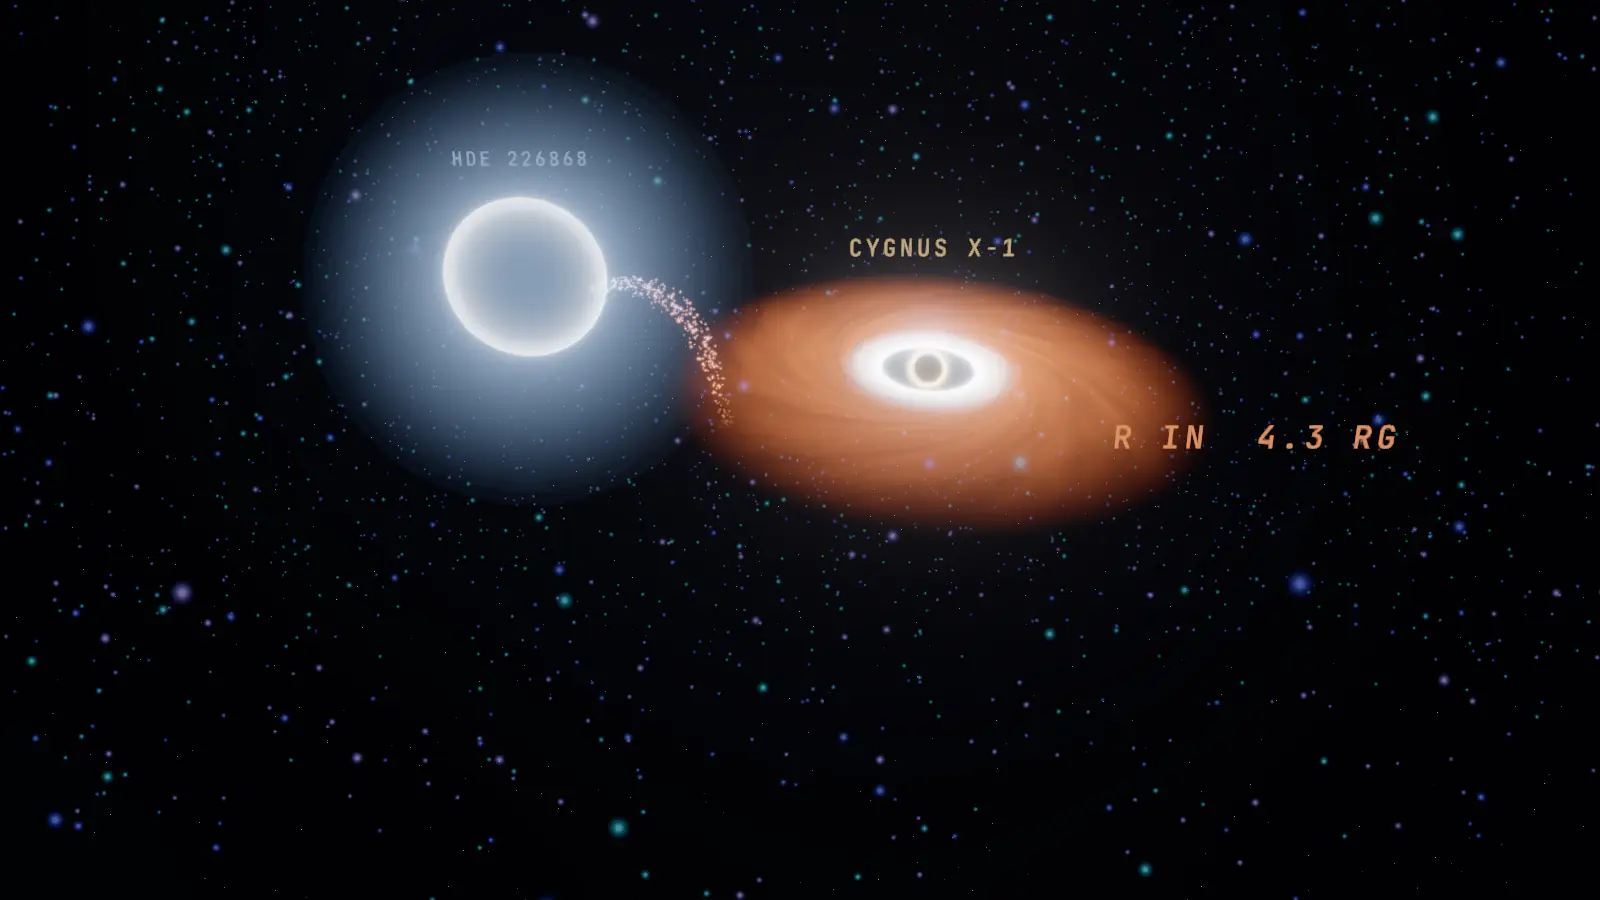
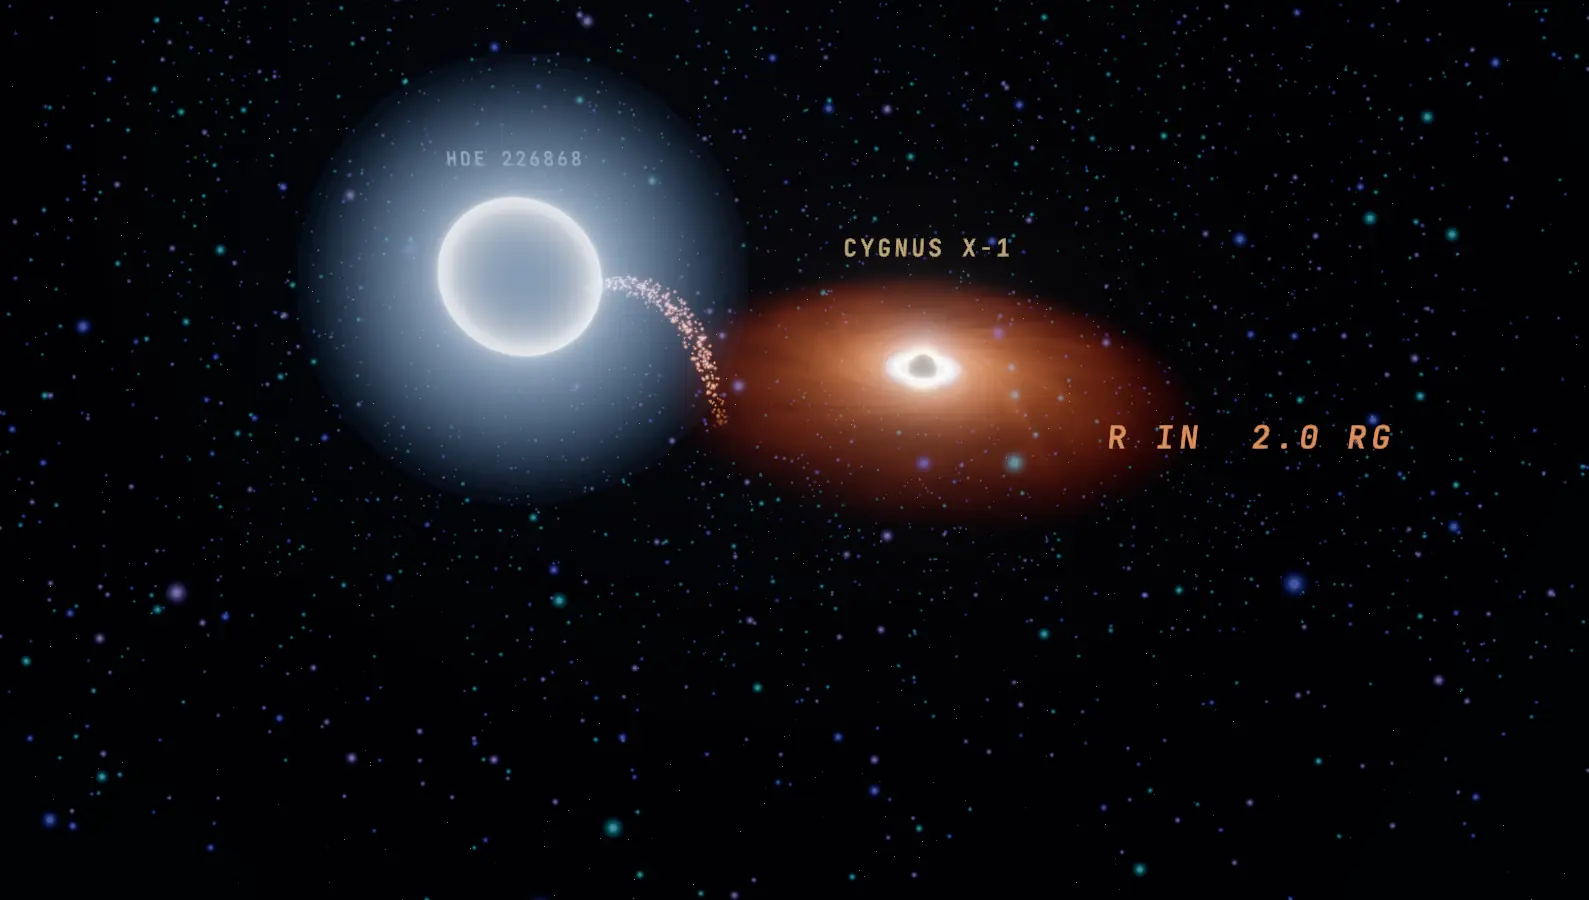
fix: correct launch content and terminal site paths
Recapture the Cygnus X-1 poster and share image at the final 2.0 Rg value, make the terminal accept site paths such as /posts, update the AzuFlow row, credit the noise hash, and add a license ledger.

diff --git a/src/data/projectIndex.ts b/src/data/projectIndex.ts
@@ -14,7 +14,7 @@ export const PROJECT_INDEX: IndexedProject[] = [
   { name: 'LLM Financial AI System', description: 'Self-hosted open-source LLM deployment on Vast.ai for financial statement analysis with structured JSON output pipelines.' },
   { name: 'Molecular Dynamics Simulation', description: 'GROMACS/LAMMPS pipeline modeling thermal motion of DNA/RNA molecules within CAD-defined nanoscale boundaries.' },
   { name: 'HPC Cluster & Homelab', description: 'Earlier 5-node Slurm and Proxmox HA clusters with GPU scheduling, Kubernetes, TrueNAS, and Grafana/Prometheus monitoring.' },
-  { name: 'AzuFlow', description: 'Privacy-first productivity app (React Native mobile + Electron desktop) with background alerts and cross-platform sync.' },
+  { name: 'AzuFlow', description: 'Native SwiftUI macOS focus app with a Safari extension and a bring-your-own-key AI coach, built for OpenAI Build Week.' },
   { name: 'Sensor Data App', description: 'Cross-platform mobile app for high-frequency sensor logging (100Hz) for a mental health research study at IISER Bhopal.' },
   { name: 'Spillover', description: 'Real-time party game app (Next.js + Supabase) with anonymous hot takes, Two Truths and a Lie, and live leaderboard.' },
   { name: 'Catering Business Website', description: 'Catering business website with Payload CMS, multi-step quote wizard, menu management, and inquiry tracking.' },

diff --git a/src/components/CosmicJourney3D/index.tsx b/src/components/CosmicJourney3D/index.tsx
@@ -40,13 +40,14 @@ const PerfProbe = lazy(() => import('./PerfProbe'))
 function installFrameGrabber() {
   const target = window as unknown as {
     __captureFrame?: (time: number) => Promise<Blob | null>
-    __storyBeats?: { id: string; progress: number }[]
+    __storyBeats?: { id: string; start: number; end: number }[]
   }
-  // Each beat's id and the page progress at the middle of its scroll range, for scripts/capture-posters.mjs.
+  // Each beat's id and the page progress where its scroll range starts and ends, for scripts/capture-posters.mjs.
   const ranges = cumulativeRanges(BEATS.map((b) => b.meta.scrollLength))
   target.__storyBeats = BEATS.map((b, i) => ({
     id: b.id,
-    progress: flightFractionToGlobal((ranges[i]!.start + ranges[i]!.end) / 2),
+    start: flightFractionToGlobal(ranges[i]!.start),
+    end: flightFractionToGlobal(ranges[i]!.end),
   }))
   target.__captureFrame = (time) => new Promise((resolve) => {
     journeyFrame.clock = time

diff --git a/src/Footer/Component.tsx b/src/Footer/Component.tsx
@@ -278,6 +278,13 @@ export function Footer() {
               <div>
                 &copy; {new Date().getFullYear()} Kartik Mandar | MSc Astrophysics
               </div>
+              <div>
+                Noise in the story shaders uses{' '}
+                <a className="underline hover:text-white transition-colors" href="https://www.shadertoy.com/view/4djSRW" target="_blank" rel="noopener noreferrer">
+                  Hash without Sine
+                </a>{' '}
+                by Dave Hoskins (MIT)
+              </div>
               <CookieConsentSettings className="text-center" />
             </div>
           </div>

diff --git a/src/components/SpotlightTerminal/FileSystemMapper.ts b/src/components/SpotlightTerminal/FileSystemMapper.ts
@@ -265,7 +265,10 @@ export class FileSystemMapper {
 
   public resolvePath(currentPath: string, targetPath: string): string {
     if (targetPath.startsWith('/')) {
-      return this.normalizePath(targetPath)
+      const normalized = this.normalizePath(targetPath)
+      // Visitors type site URLs, so /posts means /home/posts.
+      const isSiteUrl = normalized !== '/' && normalized !== '/home' && !normalized.startsWith('/home/')
+      return isSiteUrl ? `/home${normalized}` : normalized
     }
 
     if (targetPath === '.') {

diff --git a/src/components/SpotlightTerminal/CommandProcessor.ts b/src/components/SpotlightTerminal/CommandProcessor.ts
@@ -49,7 +49,7 @@ export class CommandProcessor {
       name: 'cd',
       description: 'Change directory - navigate to different pages',
       usage: 'cd [path]',
-      examples: ['cd /posts', 'cd ..', 'cd /projects', 'cd ~/']
+      examples: ['cd /posts', 'cd ..', 'cd /open-source', 'cd ~/']
     })
 
     commands.set('tree', {

diff --git a/src/components/QuasarBackground/engine/shaders/chunks.ts b/src/components/QuasarBackground/engine/shaders/chunks.ts
@@ -1,6 +1,7 @@
 /** Shared GLSL chunks (GLSL ES 1.0, used by both tiers). */
 import { CONSTANTS } from '../types'
 
+/** hash13 follows the "Hash without Sine" pattern (Dave Hoskins, MIT). */
 export const GLSL_NOISE = /* glsl */ `
 float hash13(vec3 p) {
   p = fract(p * 0.1031);

diff --git a/docs/license-ledger.md b/docs/license-ledger.md
@@ -1,0 +1,40 @@
+# License Ledger
+
+What the site ships that someone could ask about, checked against the repo on 2026-11-02. Log new fonts, models, audio, textures and borrowed shader code here before committing them.
+
+## Story art and shaders
+| Asset | Source | License | Notes |
+|---|---|---|---|
+| `blackhole.frag`, `sky.frag`, scene shaders in `CosmicJourney3D` | Written in this repo | Owner's own | |
+| Gravitational-lens shader in `Beat_Lensing.tsx` | Ported from the site's own old 2D block | Owner's own | |
+| `hash13` in `shaders/chunks.ts` and `art/glsl.ts` | "Hash without Sine" pattern, Dave Hoskins | MIT | Credited in the code and the site footer |
+| `public/media/my-story/*` posters, share image, loader backdrop | Rendered from the site's own scenes | Owner's own | |
+| 3D models, HDRs, LUTs, textures in the story | None: the art is procedural | n/a | Nothing is loaded; the plan's CC0 models weren't needed |
+
+## Audio
+| Asset | Source | License | Notes |
+|---|---|---|---|
+| `public/audio/quasar-compressed.mp3` | Existing track | Owner confirmed they hold the rights, 2026-11-02 | The owner's word; no document is on file here |
+| Whoosh, sub swell, arrival notes | Generated at runtime in `src/lib/audioEngine.ts` | Owner's own | No effect files ship |
+
+## Fonts
+| Asset | Source | License | Notes |
+|---|---|---|---|
+| Instrument Serif, Inter, JetBrains Mono | Google Fonts through `next/font` | OFL | Self-hosted at build time |
+| `public/fonts/JetBrainsMono-Medium.woff` | JetBrains Mono, for WebGL labels | OFL | License text is alongside it in `JetBrainsMono-OFL.txt` |
+
+## Main libraries
+| Package | Version | License | Notes |
+|---|---|---|---|
+| `gsap` (with SplitText) | 3.15.0 | GSAP Standard "no charge" license | Not open source; the terms are at gsap.com/standard-license |
+| `three` | 0.183.2 | MIT | |
+| `@react-three/fiber`, `drei`, `postprocessing` | 9.6.1, 10.7.7, 3.0.4 | MIT | |
+| `postprocessing` | 6.39.1 | Zlib | |
+| `troika-three-text` (through drei) | 0.52.4 | MIT | |
+| `lenis` | 1.3.26 | MIT | |
+| `framer-motion` | 12.38.0 | MIT | |
+| `sharp` | 0.34.5 | Apache-2.0 | Scripts only |
+
+## Not checked
+- **Images outside the story:** `public/media` also holds project logos and screenshots (ML4SCI, Stingray, DAVE, GSoC) and post images such as `Library.jpg` and `buttermilk_stuck.JPG`. Where they came from isn't recorded here.
+- **Smaller dependencies:** only the packages above were checked, not the full tree.

diff --git a/docs/superpowers/plans/2026-10-28-wow-phase-0-groundwork.md b/docs/superpowers/plans/2026-10-28-wow-phase-0-groundwork.md
@@ -31,6 +31,8 @@ Phase 0 of `2026-10-28-site-wow-redesign-plan.md`. Started 2026-10-28.
 | `@mui/*` usage | `grep -rln "@mui" src` finds no imports. Both packages can be removed in Phase 5. |
 
 ## License ledger (start)
+This is the starting record from 2026-10-28. The current one is `docs/license-ledger.md`.
+
 | Asset | Source | License | Action |
 |---|---|---|---|
 | `blackhole.frag`, `sky.frag`, `meshShaders` | Written in this repo (Jun 2026 quasar-realism spec) | Owner's own | none |
